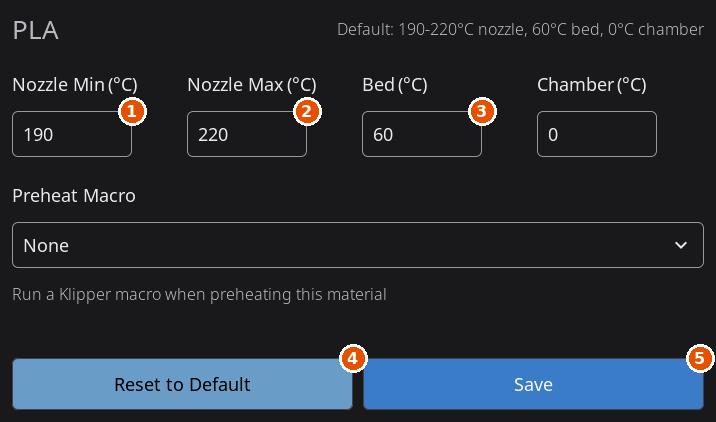
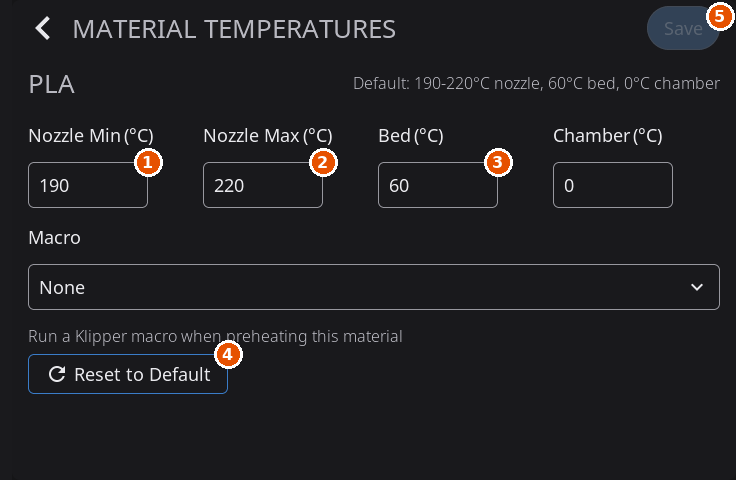
docs(filament): the preset's macro mark, its field's name and the hold's row (prestonbrown/helixscreen#2183)
The user guide says where the mark sits, what the macro field is called
in each state, what a hold's picker offers, and that a preset skips its
macro while a print runs. The developer doc names the subjects and the
measured fit behind them. The picker's image is an app entry again and
the edit view's image includes the header its Save moved to. The plan
file goes: what it decided now lives in the code and these pages.

The lines below record the hand breaks of the tests this branch adds,
in f5877a4ef7's body for the planner and the send, and here for the rest.
mutation: had a slot never report a macro; "A preset carries the macro mark only while its material names a macro" red
mutation: had the glyph ignore its subject; three of the four mark cases red
mutation: had the glyph's row take the press; "A tap and a hold on a marked preset's name reach the button" red
mutation: had the spool preset never report a macro; "The spool preset carries the macro mark only while its material names a macro" red
mutation: had the field never read Macro; "The macro field reads Macro while the macro handles heating and follows the switch" red
mutation: had the switch not follow its subject; the same case red on five assertions
mutation: had a tap on the switch publish nothing; the same case red on four assertions
mutation: had Save store a heating macro whatever the switch says; "Saving keeps how the macro heats with the material" red
[…]

diff --git a/docs/user/guide/settings/printing.md b/docs/user/guide/settings/printing.md
@@ -155,8 +155,8 @@ Sets the preheat temperatures for each filament material (PLA, PETG, ABS, TPU an
 - **Nozzle Min (°C)** and **Nozzle Max (°C)**: the nozzle's working range for this material. A preset heats the nozzle to the middle of the range.
 - **Bed (°C)**: the bed target.
 - **Chamber (°C)**: the chamber target. Only shown on a printer with a chamber heater.
-- **Preheat Macro**: a Klipper macro to run when you preheat this material, or **None**.
-- **Macro handles heating** (shown once a Preheat Macro is chosen): when on, only your macro runs and it sets the temperatures. When off, HelixScreen sets the temperatures first and then runs your macro.
+- **Macro** or **Preheat Macro**: the Klipper macro to run when you preheat this material, or **None**. The field is named **Macro** while **Macro handles heating** is on, and **Preheat Macro** while it is off.
+- **Macro handles heating** (shown once a macro is chosen): when on, only your macro runs and it sets the temperatures. When off, HelixScreen sets the temperatures first and then runs your macro.
 
 Each field has a limit: nozzle 100 to 500 °C, bed 0 to 200 °C, chamber 0 to 120 °C, and Nozzle Min can't be above Nozzle Max. **Reset to Default** puts a built-in material back to its shipped values, and **Save** keeps your edit.
 
@@ -405,9 +405,11 @@ If your printer has no matching macro, some slots fall back to HelixScreen's hel
 
 Each material in [Material Temperatures](#material-temperatures) can run its own Klipper macro when you preheat it. Use this when preheating needs more than temperatures, such as turning on bed fans for ABS or starting a chamber heater.
 
-The macro runs from the **Preheat widget** on the Home or Controls screen and from the **material preset buttons on the Filament screen**, including the active-spool preset. On the Filament screen, tap a preset to preheat it, or long-press it to choose which material the button uses. The separate nozzle, bed and chamber temperature controls never run a material's macro.
+The macro runs from the **Preheat widget** on the Home or Controls screen and from the **material preset buttons on the Filament screen**, including the active-spool preset. A preset whose material has a macro shows a small script icon, so you can see what a tap will run: before the material's name, or on a small screen, where the name fills the button, before its temperature. On the Filament screen, tap a preset to preheat it, or long-press it to choose which material the button uses; the top row of that picker names the material's macro, or **None**, and tapping the row opens the material on this screen. The separate nozzle, bed and chamber temperature controls never run a material's macro.
 
 **Macro Handles Heating** doesn't turn the macro on or off: the macro runs either way. When it's on, the macro must set every temperature itself. When there's no macro, or the macro doesn't exist on this printer, the button just sets the preset temperatures. A manual preheat doesn't keep a hotter nozzle target from before; loading and unloading keep their own heating.
+
+While a print is running or paused, a preset sets its temperatures and skips the macro, and a notice says so: a macro that soaks or wipes was written for an idle printer. A macro may run for up to 20 minutes. If it is still running then, HelixScreen reports nothing and lets it finish.
 
 ---
 

diff --git a/docs/devel/FILAMENT_MANAGEMENT.md b/docs/devel/FILAMENT_MANAGEMENT.md
@@ -933,6 +933,24 @@ are its definition) and the screen hides Reset for it. Quick-button choices
 (`preset_materials`) stay in `settings.json`: they are a UI choice, not material
 data.
 
+**The preset's macro mark and the picker's row.** A preset whose material names a macro
+(`MaterialOverride::names_a_macro`) shows the `script_text` glyph, bound to
+`preset_material_<slot>_has_macro` from `src/system/preset_materials.cpp#refresh_subjects`; the spool
+preset's is bound to `filament_spool_preset_has_macro`. The glyph sits before the name while the
+name fits beside it, and before the temperature line in a narrower button (480x320 and 480x272):
+`src/ui/filament/ui_panel_filament.cpp#preset_fit_temps` measures both with
+`helix::ui::label_width` and publishes `preset_material_<slot>_mark_beside_name` (the spool preset
+has its own), the markup shows one glyph or the other from it, and the same fit leaves the
+temperature line only the room the glyph takes. Both rows are `clickable="false"`, so neither takes
+a press from the button. A hold on a preset still opens `filament_catalog_picker`; for
+that caller the dialog shows a row bound to `catalog_picker_macro_shown`, `catalog_picker_macro_set`,
+`catalog_picker_macro_heats` and `catalog_picker_macro_name`, and its click opens the material's edit
+view through `MaterialTempsOverlay::show_material`. The selector sits in a host that fills what the
+body has left, so the product list gives the row its height and ends above the buttons. Whether a
+macro heats is `MaterialOverride::macro_heats`, asked by
+`src/printer/macro_executor.cpp#plan_material_preheat`, by the edit view's `material_macro_heats`
+subject, and by the row.
+
 **Migration from `settings.json`.** `MaterialSettingsManager::init()` moves any
 `material_overrides` left in `settings.json` into the overlay's `types`
 (`bed_temp` becomes `bed`, `chamber_temp` becomes `chamber`; a field the overlay

diff --git a/docs/user/guide/temperature.md b/docs/user/guide/temperature.md
@@ -135,10 +135,11 @@ The preset buttons are not fixed. On the **Filament** screen you can point any o
 ![Choosing a filament type for a preset button](../../images/user/filament-preset-picker.png)
 
 1. **Long-press** a preset button on the Filament screen until the material picker appears.
-2. Scroll the list and tap the filament type you want. The button's label and its temperatures update immediately, and the choice is remembered across restarts.
-3. To undo all changes, long-press any preset button and tap **Reset to defaults** at the top of the list. That restores PLA, PETG, ABS and TPU.
+2. Choose a vendor and a filament type, tap a product in the list, then tap **Select**. The button's label and its temperatures update immediately, and the choice is remembered across restarts.
+3. To undo all changes, long-press any preset button and tap **Reset to defaults** at the bottom of the picker. That restores PLA, PETG, ABS and TPU.
+4. The picker's top row names the macro this button's material runs, or **None**. Tap it to open that material in [Material Temperatures](settings/printing.md#material-temperatures).
 
-A short tap still just applies the button's temperatures. Only a long-press opens the picker.
+A short tap applies the button's temperatures, and runs its material's macro when it has one. Only a long-press opens the picker.
 
 ### Spool Preset
 

diff --git a/docs/devel/GALLERY.md b/docs/devel/GALLERY.md
@@ -468,6 +468,10 @@ Every app screenshot the docs show, grouped by area. Generated by `scripts/gen_g
 
 <img src="../images/user/filament-portrait.png" alt="Filament portrait" width="400"/>
 
+### Filament preset picker
+
+<img src="../images/user/filament-preset-picker.png" alt="Filament preset picker" width="400"/>
+
 ### Filament tool select
 
 <img src="../images/user/filament-tool-select.png" alt="Filament tool select" width="400"/>
